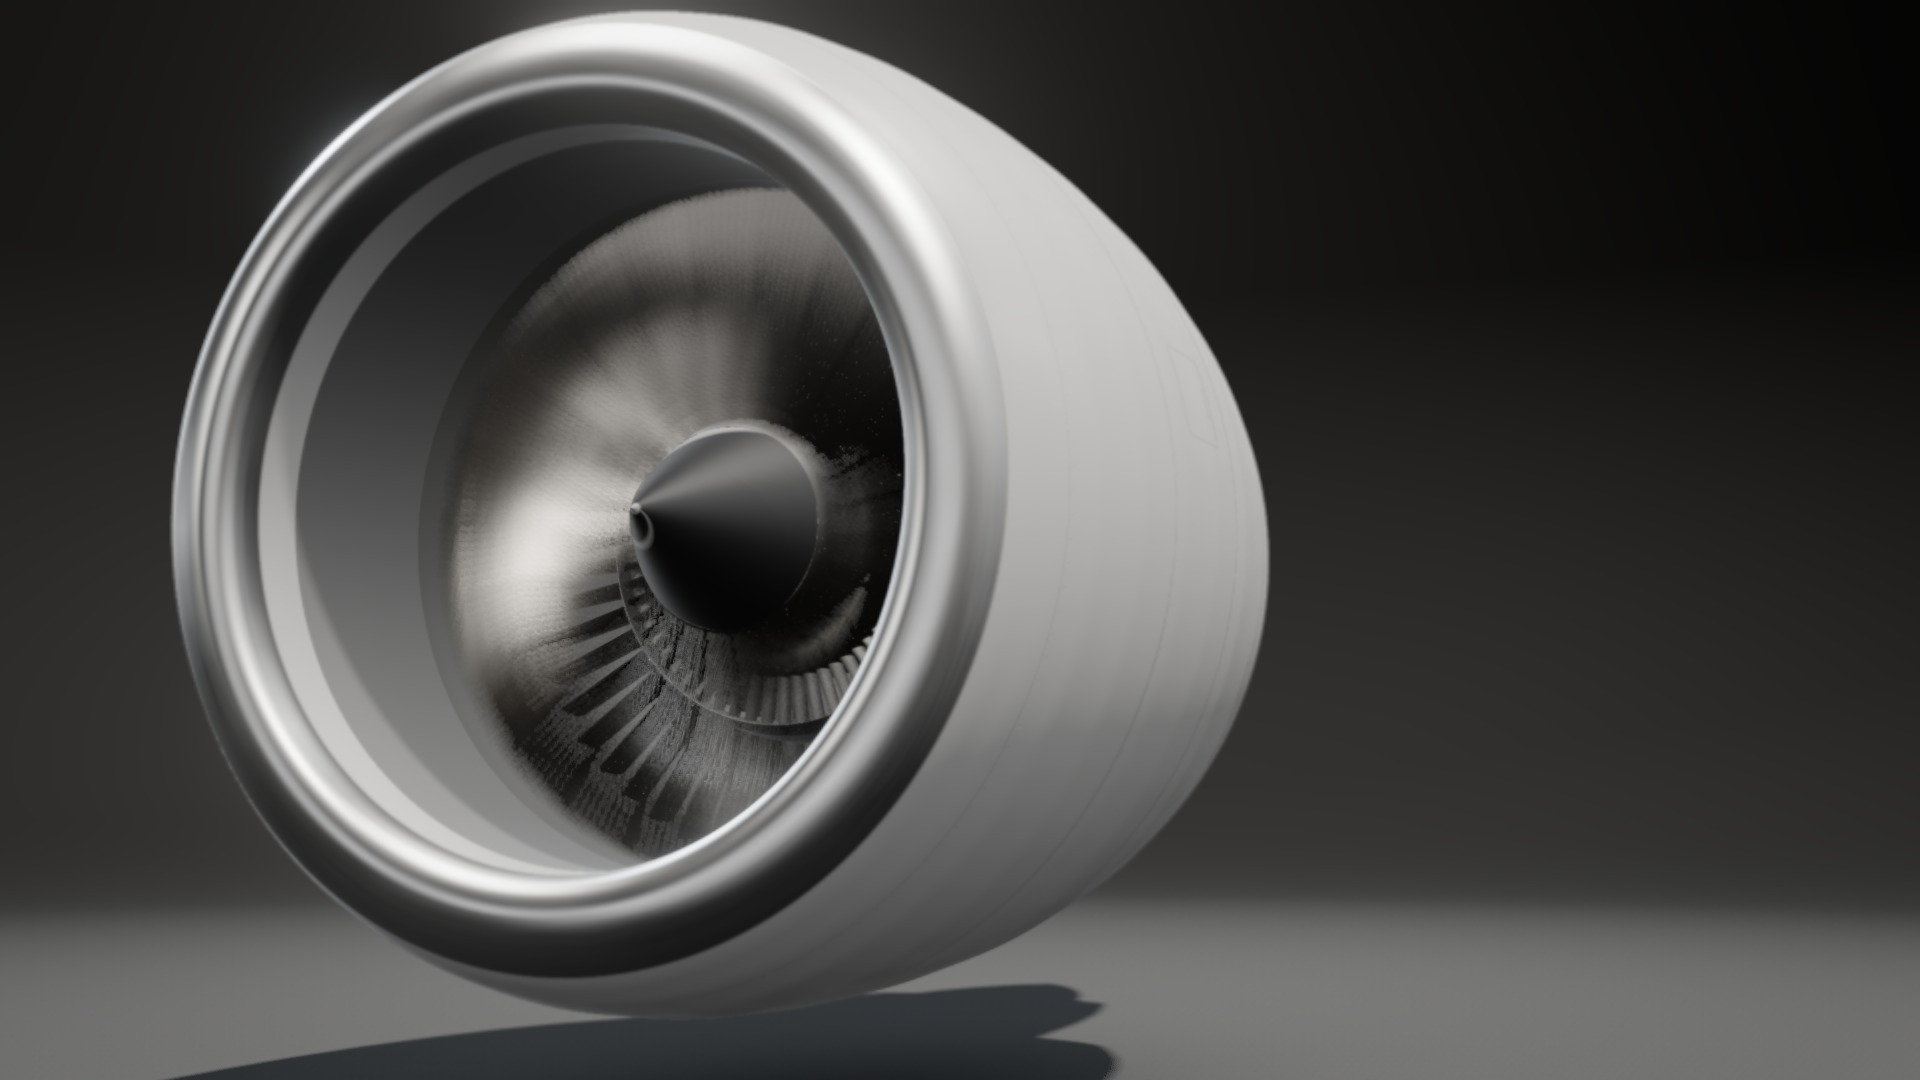
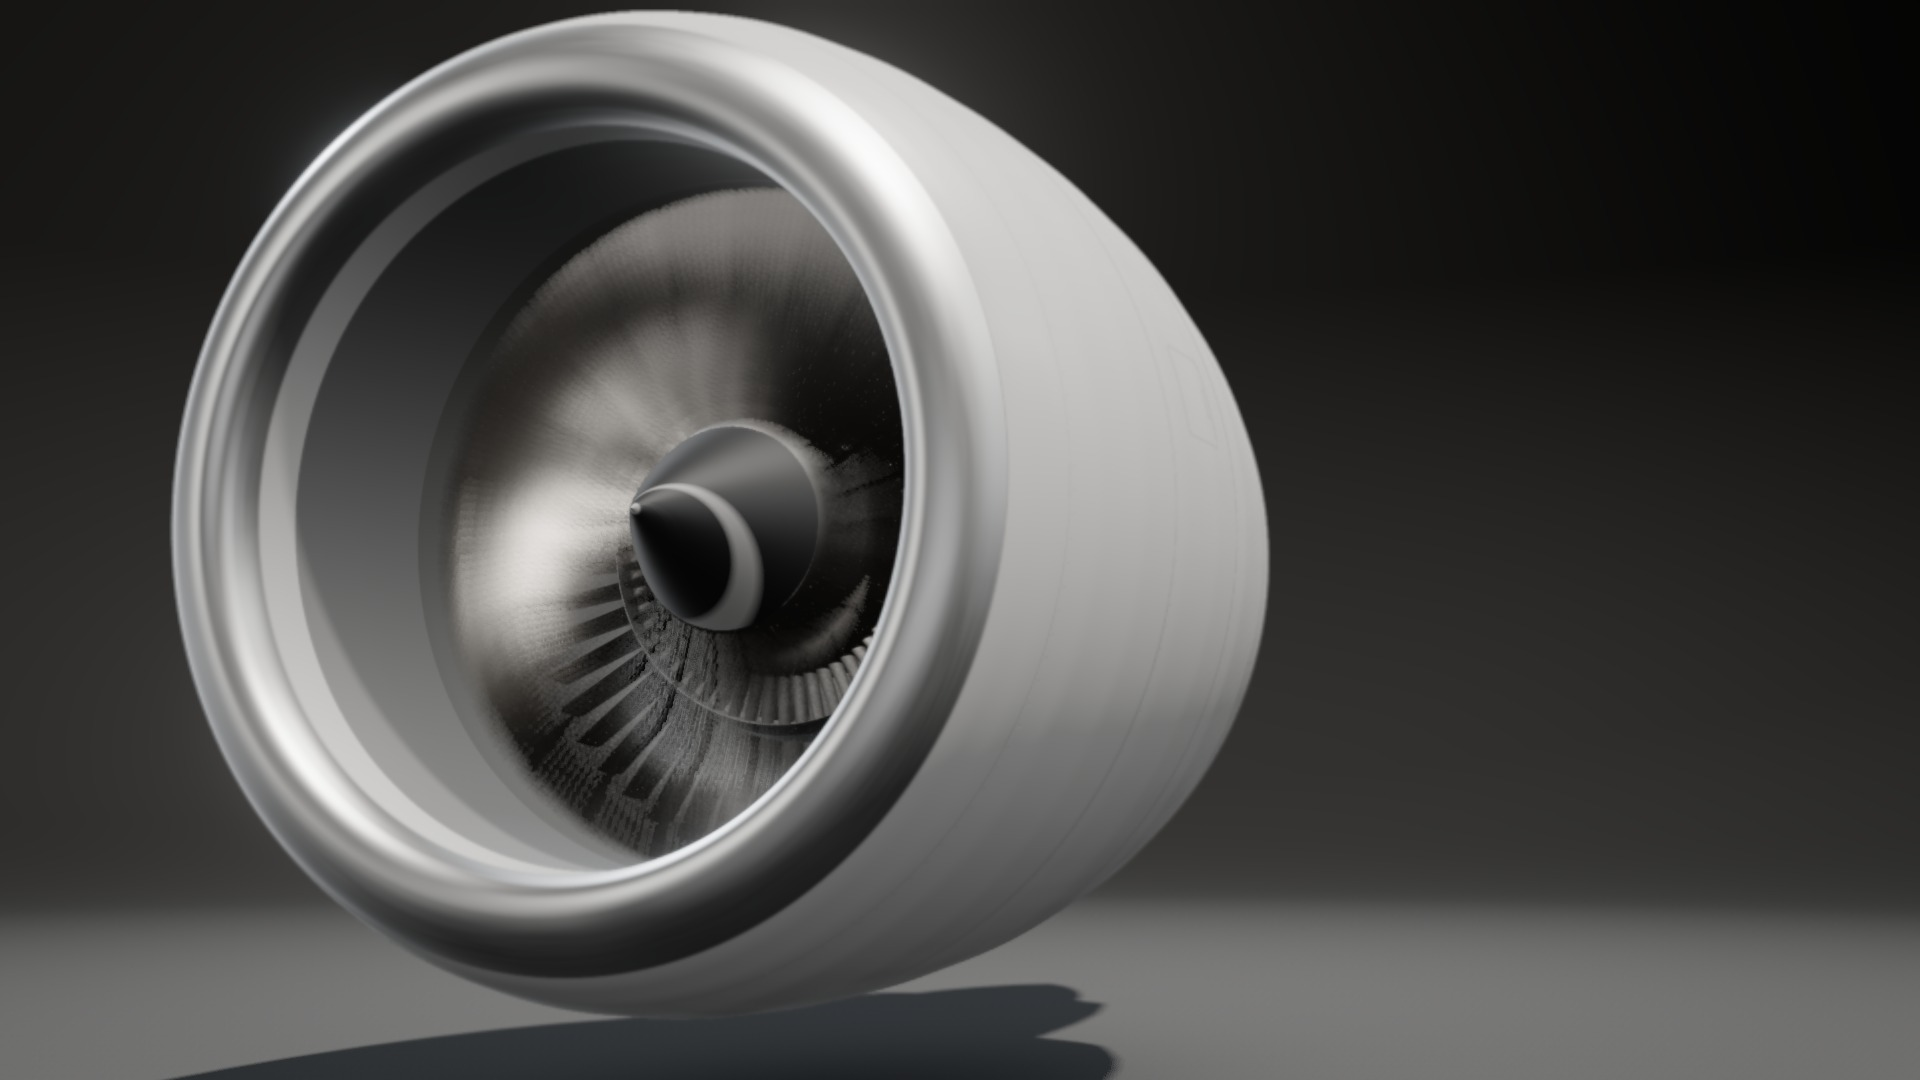
W2-lookdev-4: lip roughness 0.42 stands in for the dropped anisotropy; capture prints and records the P4 verdict (official only at D0-1); shots 00, 01, 05 and the per-view triangle counts

diff --git a/tools/lookdev/capture.ts b/tools/lookdev/capture.ts
@@ -21,6 +21,7 @@ import { writeFileSync } from 'node:fs';
 import { join } from 'node:path';
 import { chromium, type Page } from '@playwright/test';
 import { displayIntervalMs, type Validity } from '../../spikes/lib/validity.ts';
+import { THRESHOLDS } from '../../src/contracts/thresholds.ts';
 import { summarizeRun, type FrameSample, type RunSummary } from '../../src/gpu/passTimings.ts';
 import {
   combineReps,
@@ -256,6 +257,32 @@ async function main(): Promise<void> {
           .join(', ');
         log(
           `${c.id}: GPU ${combined.gpuTotal.p50.toFixed(2)} ms median of ${combined.runs} runs (${passes}); CPU ${combined.cpu.p50.toFixed(2)} ms; ${valid ? 'VALID' : 'INVALID'}`,
+        );
+      }
+      // P4 (D4-2, PHYSICS 3.4): the default view's median render GPU time, gated at <= 8.0 ms
+      // only under D0-1 (the official set: 10 s warm-up, 3 x 60 s, AC, nothing else running);
+      // the cutaway and hero are reported against the 10 ms target, not gated
+      const p4 = THRESHOLDS.P4.values;
+      const gpuOf = (id: string): number | null => {
+        const r = results[id] as { gpuTotal?: { p50: number } } | undefined;
+        return r?.gpuTotal?.p50 ?? null;
+      };
+      const p4Default = gpuOf('default (threeQuarterFront)');
+      const official = !t.diagnostics && t.warmupS >= 10 && t.runS >= 60 && t.reps >= 3;
+      if (p4Default !== null) {
+        const verdict = p4Default <= p4.maxRenderGpuMs.value ? 'PASS' : 'FAIL';
+        results.P4 = {
+          defaultGpuMs: p4Default,
+          maxMs: p4.maxRenderGpuMs.value,
+          verdict: official ? verdict : `${verdict} (indicative: not the D0-1 protocol)`,
+          reported: {
+            cutaway: gpuOf('cutaway'),
+            hero: gpuOf('hero (cinematic, DoF on)'),
+            targetMs: p4.reportedTargetMs.value,
+          },
+        };
+        log(
+          `P4: default ${p4Default.toFixed(2)} ms vs <= ${String(p4.maxRenderGpuMs.value)} ms: ${official ? verdict : `${verdict}, indicative only`}; cutaway ${gpuOf('cutaway')?.toFixed(2) ?? '-'}, hero ${gpuOf('hero (cinematic, DoF on)')?.toFixed(2) ?? '-'} (target <= ${String(p4.reportedTargetMs.value)} ms, not gated)`,
         );
       }
       const file = join(out, 'timings.json');

diff --git a/src/render/materials.ts b/src/render/materials.ts
@@ -379,12 +379,14 @@ function partMaterial(kind: PartMaterial, u: LookUniforms): NodeMaterial {
       // no anisotropy (LOD round, D4-5): the lip solid includes the whole inner barrel, which
       // fills much of the front view, and the anisotropic lobe was ~1 ms of the opaque pass
       // for a 0.3 stretch the buffing grain in the roughness already carries
-      m = phys({ color: c3(0.8, 0.805, 0.81), metalness: 1, roughness: 0.34 });
+      m = phys({ color: c3(0.8, 0.805, 0.81), metalness: 1, roughness: 0.42 });
       m.colorNode = mix(paint, al, metal).mul(float(1).sub(seam.mul(0.5)));
       m.metalnessNode = metal;
       m.roughnessNode = mix(
         float(0.28).add(broad.mul(0.05)),
-        float(0.34)
+        // 0.42, not 0.34: the isotropic lobe stands in for the dropped 0.3 anisotropy, which
+        // had widened it (at 0.34 the band read as chrome again in 01)
+        float(0.42)
           .add(buff.mul(0.035).mul(resolved1(lx, 1 / 180)))
           .add(broad.mul(0.04)),
         metal,
